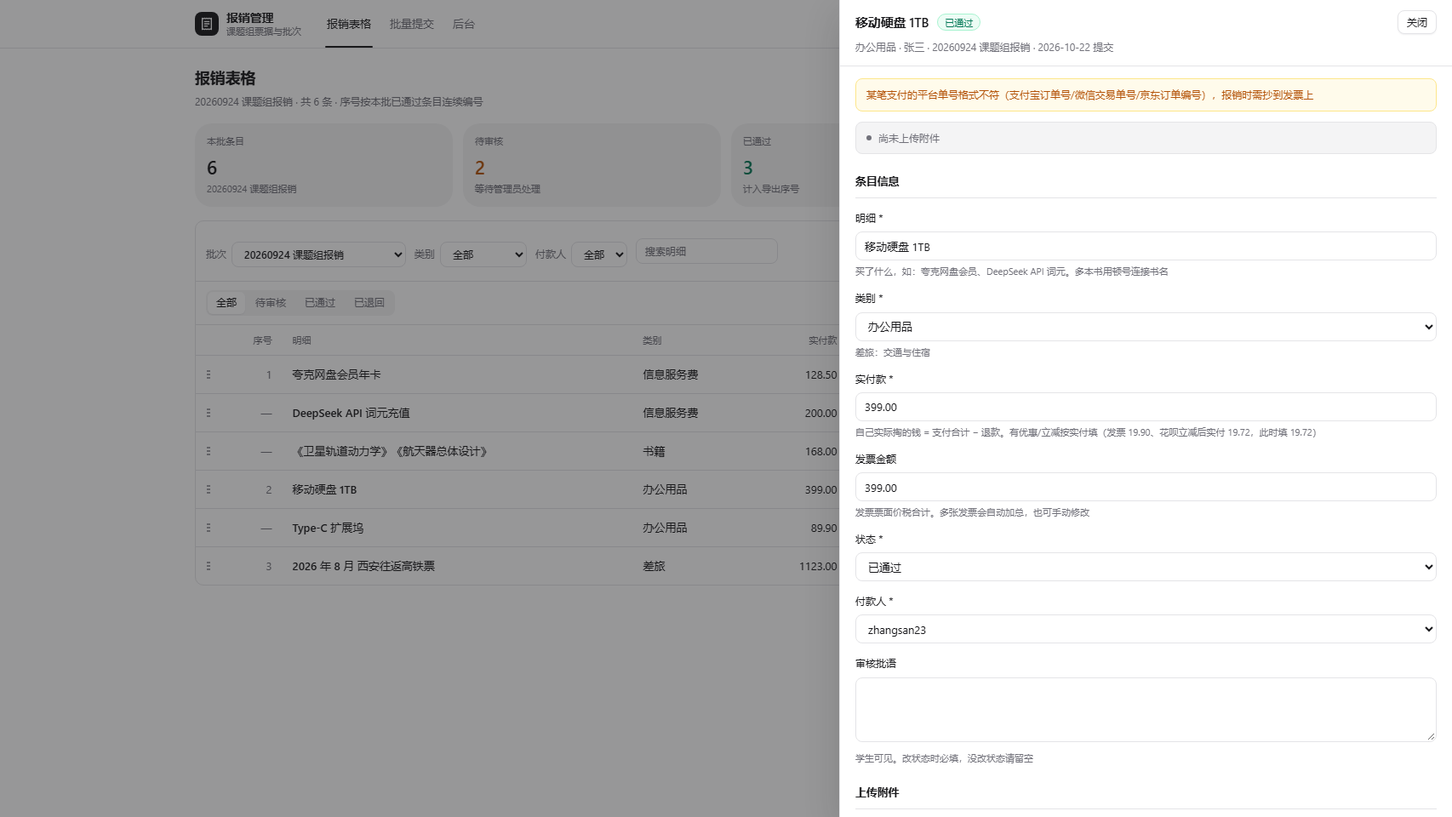
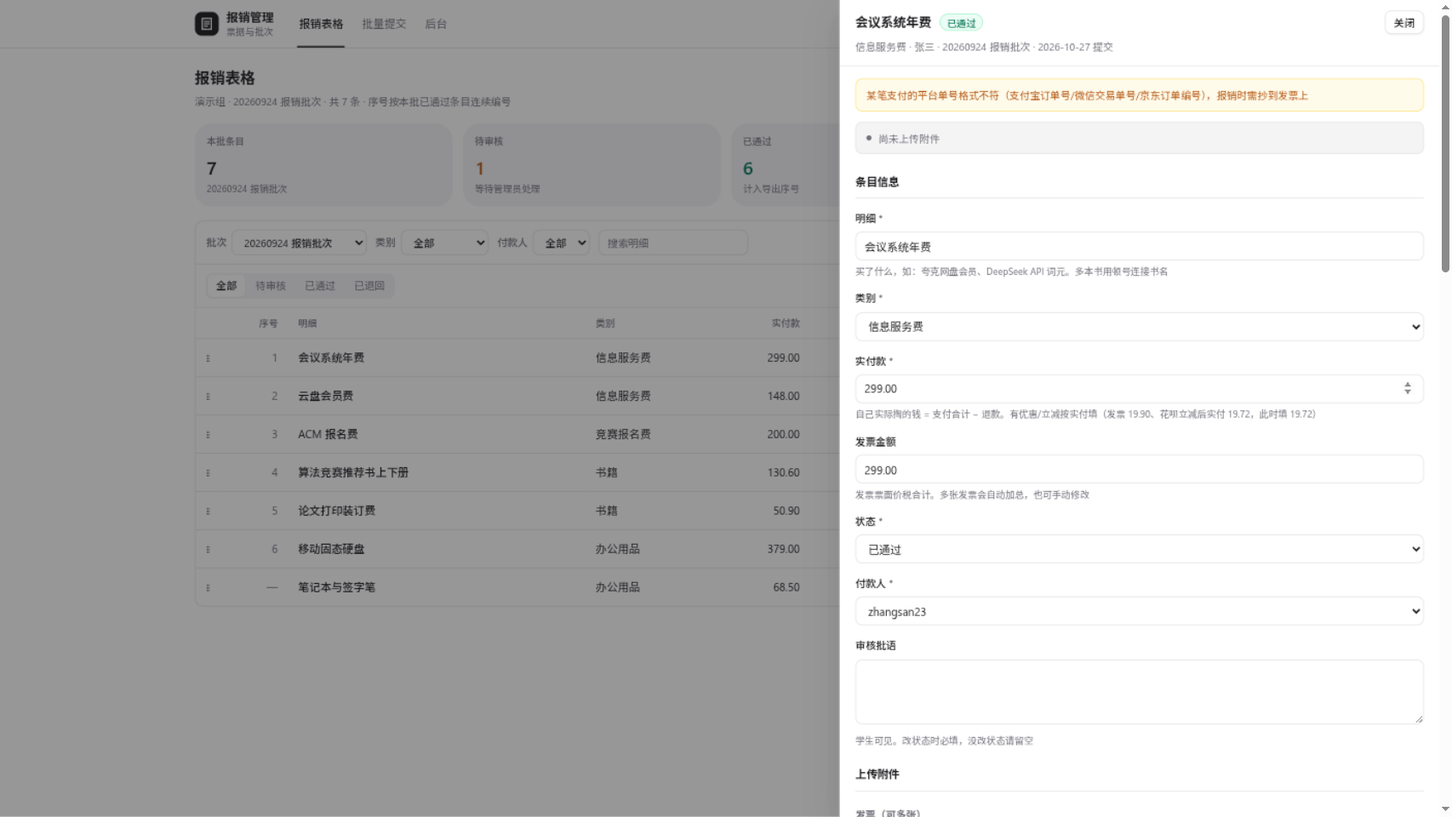
chore: 移除仓库中的敏感信息
- 移除真实组名（实验班、课题组）、示例用户名、初始密码明文与生产域名，涉及 README、AGENTS.md、CONTEXT.md、CHANGELOG、ADR 与代码注释、模板文案
- 迁移种子组名改为默认组，仅在有存量数据时兜底，全新部署不再预置空批次与默认组（0005、0011），测试数据组名同步改为甲组、乙组
- 预览截图以演示数据重新生成，不含真实姓名与批次名
- 全量 216 项测试通过

diff --git a/core/templates/core/board.html b/core/templates/core/board.html
@@ -51,7 +51,7 @@
         </select>
         <label for="new-batch-name">批次名称</label>
         <input type="text" id="new-batch-name" name="name" maxlength="100" required
-               placeholder="如：20260924 课题组报销">
+               placeholder="如：20260924 报销批次">
         <button type="submit">创建批次</button>
       </form>
     {% elif groups %}

diff --git a/core/templates/core/base.html b/core/templates/core/base.html
@@ -34,7 +34,7 @@
       </span>
       <span class="brand-text">
         <span class="brand-name">报销管理</span>
-        <span class="brand-sub">课题组票据与批次</span>
+        <span class="brand-sub">票据与批次</span>
       </span>
     </a>
     {% if user.is_authenticated %}

diff --git a/core/tests.py b/core/tests.py
@@ -76,7 +76,7 @@ class SubmissionTestCase(TestCase):
         self.category, _ = Category.objects.get_or_create(
             name="信息服务费", defaults={"order": 0}
         )
-        self.group, _ = Group.objects.get_or_create(name="实验班")
+        self.group, _ = Group.objects.get_or_create(name="甲组")
         self.batch = Batch.objects.create(name="2025 报销批次", group=self.group)
         self.student = User.objects.create_user(
             "zhangsan22", password="pw", first_name="张三"
@@ -1630,12 +1630,12 @@ class GroupIsolationTests(SubmissionTestCase):
 
     def setUp(self):
         super().setUp()
-        self.other_group = Group.objects.create(name="课题组")
+        self.other_group = Group.objects.create(name="乙组")
         self.other_user = User.objects.create_user(
             "wangwu23", password="pw", first_name="王五"
         )
         self.other_group.user_set.add(self.other_user)
-        self.other_batch = Batch.objects.create(name="课题组批次", group=self.other_group)
+        self.other_batch = Batch.objects.create(name="乙组批次", group=self.other_group)
         self.other_item = Item.objects.create(
             owner=self.other_user, title="他组条目", category=self.category,
             batch=self.other_batch, actual_amount="9.00", position=1,
@@ -1653,7 +1653,7 @@ class GroupIsolationTests(SubmissionTestCase):
         response = self.client.get("/", {"batch": self.other_batch.pk})
         self.assertContains(response, "他组条目")
         self.assertContains(response, self.other_batch.name)
-        self.assertContains(response, self.batch.name)  # 批次下拉仍列出实验班批次
+        self.assertContains(response, self.batch.name)  # 批次下拉仍列出甲组批次
 
     def test_multi_group_user_sees_both(self):
         self.student.groups.add(self.other_group)
@@ -1661,7 +1661,7 @@ class GroupIsolationTests(SubmissionTestCase):
         response = self.client.get("/")
         self.assertContains(response, self.other_batch.name)
         self.assertContains(response, self.batch.name)
-        self.assertContains(response, "他组条目")  # 默认取最新批次（课题组批）
+        self.assertContains(response, "他组条目")  # 默认取最新批次（乙组批）
 
     def test_batch_page_group_selector_only_for_multi_group(self):
         self.client.force_login(self.student)
@@ -2085,7 +2085,7 @@ class ExportBatchTests(SubmissionTestCase):
         ))
         self.client.force_login(self.staff)
         response = self.client.get("/export/excel/", {"batch": self.batch.pk})
-        self.assertIn("报销汇总_实验班_2025 报销批次.xlsx", _content_disposition(response))
+        self.assertIn("报销汇总_甲组_2025 报销批次.xlsx", _content_disposition(response))
         sheet = load_workbook(BytesIO(response.content)).active
         titles = [sheet.cell(row=r, column=2).value for r in range(2, sheet.max_row + 1)]
         self.assertIn("硬盘", titles)
@@ -2106,7 +2106,7 @@ class ExportBatchTests(SubmissionTestCase):
                             status=Item.STATUS_APPROVED)
         self.client.force_login(self.staff)
         response = self.client.get("/export/zip/", {"batch": self.batch.pk})
-        self.assertIn("报销材料_实验班_2025 报销批次.zip", _content_disposition(response))
+        self.assertIn("报销材料_甲组_2025 报销批次.zip", _content_disposition(response))
 
     def test_excel_seq_follows_position(self):
         Item.objects.create(owner=self.student, title="后提交排前", category=self.category,
@@ -2237,7 +2237,7 @@ class BatchAddTests(SubmissionTestCase):
         self.assertFalse(Batch.objects.filter(name="无组批次").exists())
 
     def test_same_name_allowed_in_other_group(self):
-        other_group = Group.objects.create(name="课题组")
+        other_group = Group.objects.create(name="乙组")
         self.client.force_login(self.staff)
         response = self.client.post(
             "/batches/add/", {"name": self.batch.name, "group": other_group.pk})
@@ -2246,11 +2246,11 @@ class BatchAddTests(SubmissionTestCase):
 
 
 class SelfServiceBatchTests(SubmissionTestCase):
-    """课题组成员自助：自己建批、条目进自己批次、自己批次内可审核。"""
+    """乙组成员自助：自己建批、条目进自己批次、自己批次内可审核。"""
 
     def setUp(self):
         super().setUp()
-        self.self_group = Group.objects.create(name="课题组")
+        self.self_group = Group.objects.create(name="乙组")
         GroupSettings.objects.create(group=self.self_group, self_service=True)
         self.member = User.objects.create_user("member", password="pw", first_name="成员甲")
         self.member_b = User.objects.create_user("memberb", password="pw", first_name="成员乙")
@@ -2502,7 +2502,7 @@ class AdminPagesTests(TestCase):
         self.client.force_login(self.root)
 
     def test_admin_pages_render(self):
-        group = Group.objects.create(name="课题组")
+        group = Group.objects.create(name="乙组")
         for url in (
             "/admin/auth/group/add/",
             f"/admin/auth/group/{group.pk}/change/",
@@ -2514,26 +2514,26 @@ class AdminPagesTests(TestCase):
                 self.assertEqual(self.client.get(url).status_code, 200)
 
     def test_group_admin_updates_members(self):
-        group = Group.objects.create(name="课题组")
+        group = Group.objects.create(name="乙组")
         response = self.client.post(
             f"/admin/auth/group/{group.pk}/change/",
-            {"name": "课题组", "members": [self.root.pk]},
+            {"name": "乙组", "members": [self.root.pk]},
         )
         self.assertEqual(response.status_code, 302)
         self.assertTrue(group.user_set.filter(pk=self.root.pk).exists())
 
     def test_group_admin_keeps_inactive_members(self):
-        group = Group.objects.create(name="课题组")
+        group = Group.objects.create(name="乙组")
         inactive = User.objects.create_user("gone", password="x", is_active=False)
         group.user_set.add(inactive)
         response = self.client.get(f"/admin/auth/group/{group.pk}/change/")
         self.assertContains(response, f'value="{inactive.pk}" selected')
 
     def test_group_admin_sets_self_service(self):
-        group = Group.objects.create(name="课题组")
+        group = Group.objects.create(name="乙组")
         response = self.client.post(
             f"/admin/auth/group/{group.pk}/change/",
-            {"name": "课题组", "members": [], "self_service": "on"},
+            {"name": "乙组", "members": [], "self_service": "on"},
         )
         self.assertEqual(response.status_code, 302)
         self.assertTrue(GroupSettings.objects.get(group=group).self_service)
@@ -2697,13 +2697,13 @@ class ImportBatchCommandTests(SubmissionTestCase):
         self.assertIn("payment.jpg", out)
 
     def test_multiple_groups_require_group_argument(self):
-        Group.objects.create(name="课题组")
+        Group.objects.create(name="乙组")
         with tempfile.TemporaryDirectory() as tmp:
             with self.assertRaisesMessage(CommandError, "--group"):
                 self.call(tmp)
 
     def test_group_argument_creates_batch_in_group(self):
-        group = Group.objects.create(name="课题组")
+        group = Group.objects.create(name="乙组")
         with tempfile.TemporaryDirectory() as tmp:
             self._write(tmp, "张三", ["invoice.jpg", "payment.jpg"])
             with mock.patch("core.vision.detect") as detect:
@@ -2712,10 +2712,10 @@ class ImportBatchCommandTests(SubmissionTestCase):
                     {"kind": "payment", "amount": 100, "order_no": ALIPAY_ORDER_NO},
                 ]
                 with mock.patch("core.vision.field_suggest", return_value={"suggestions": []}):
-                    out = self.call(tmp, "--batch", "导入测试批", "--group", "课题组")
+                    out = self.call(tmp, "--batch", "导入测试批", "--group", "乙组")
         batch = Batch.objects.get(name="导入测试批")
         self.assertEqual(batch.group, group)
-        self.assertIn("课题组", out)
+        self.assertIn("乙组", out)
 
     def test_dry_run_creates_nothing(self):
         with tempfile.TemporaryDirectory() as tmp:

diff --git a/core/migrations/0011_batch_group.py b/core/migrations/0011_batch_group.py
@@ -2,13 +2,17 @@ import django.db.models.deletion
 from django.db import migrations, models
 
 
-def seed_experiment_group(apps, schema_editor):
-    """历史数据归入实验班：现有批次与账号都迁进去，之后由管理员另建课题组。"""
+def seed_default_group(apps, schema_editor):
+    """把历史数据归入默认组。全新部署（无账号也无无组批次）不预置组，由管理员自建。"""
     Group = apps.get_model("auth", "Group")
     User = apps.get_model("auth", "User")
     Batch = apps.get_model("core", "Batch")
 
-    group, _ = Group.objects.get_or_create(name="实验班")
+    has_orphans = Batch.objects.filter(group__isnull=True).exists()
+    if not has_orphans and not User.objects.exists():
+        return
+
+    group, _ = Group.objects.get_or_create(name="默认组")
     Batch.objects.filter(group__isnull=True).update(group=group)
 
     UserGroup = User.groups.through
@@ -44,7 +48,7 @@ class Migration(migrations.Migration):
                 verbose_name="组",
             ),
         ),
-        migrations.RunPython(seed_experiment_group, migrations.RunPython.noop),
+        migrations.RunPython(seed_default_group, migrations.RunPython.noop),
         migrations.AlterField(
             model_name="batch",
             name="group",

diff --git a/core/migrations/0005_batch_item_position.py b/core/migrations/0005_batch_item_position.py
@@ -1,7 +1,7 @@
 """报销批次与条目持久化顺序：新建 Batch；Item 挂批次（PROTECT）并加全局递增 position。
 
 迁移顺序关键：batch 先以 null=True 加入，把存量条目（生产仅 1 条测试数据）挂到
-自建的"历史条目"批次并给 position=1，最后收紧为非空。
+自建的"历史条目"批次并给 position=1，最后收紧为非空。无存量条目时跳过，不建空批次。
 """
 
 import django.db.models.deletion
@@ -11,6 +11,8 @@ from django.db import migrations, models
 def assign_default_batch(apps, schema_editor):
     Batch = apps.get_model("core", "Batch")
     Item = apps.get_model("core", "Item")
+    if not Item.objects.exists():
+        return
     batch = Batch.objects.create(name="历史条目")
     Item.objects.update(batch=batch, position=1)
 

diff --git a/config/settings.py b/config/settings.py
@@ -24,7 +24,7 @@ ALLOWED_HOSTS = [
 CSRF_TRUSTED_ORIGINS = [
     o.strip() for o in os.environ.get("DJANGO_CSRF_TRUSTED_ORIGINS", "").split(",") if o.strip()
 ]
-# 导出下载走独立子域（如 https://download.cislunarspace.cn），空 = 与页面同域
+# 导出下载走独立子域（如 https://download.example.com），空 = 与页面同域
 DOWNLOAD_ORIGIN = os.environ.get("DJANGO_DOWNLOAD_ORIGIN", "").rstrip("/")
 # 页面域与下载域共享登录态：cookie 挂父域。空 = 默认仅当前域
 _cookie_domain = os.environ.get("DJANGO_COOKIE_DOMAIN", "")

diff --git a/core/stamping.py b/core/stamping.py
@@ -1,6 +1,6 @@
 """导出票据标注：把附件字节标注成盖红色标记的 PDF。
 
-规格来自人工批次处理流程（共享盘 20260924 课题组报销 处理脚本.py）：
+规格来自人工批次处理流程（共享盘 20260924 批次处理脚本.py）：
 条目导出序号盖在该条目全部附件每一页左下角（22pt hebo），各支付记录的
 平台单号逐行写在第一张发票附件首页序号上方（8.5pt china-s，前缀称谓对齐
 支付平台截图字段名），图片附件先转单页 PDF（150dpi 换算页宽）。

diff --git a/core/views.py b/core/views.py
@@ -1258,7 +1258,7 @@ def export_zip(request):
 
 
 def session_check(request):
-    """nginx auth_request 子请求（跨子域名共享 session，如 mineru.cislunarspace.cn）。
+    """nginx auth_request 子请求（跨子域名共享 session，如 mineru.example.com）。
 
     已登录返回 204，未登录返回 401。由边缘 nginx 将 401 重定向到统一登录页。
     """

diff --git a/CONTEXT.md b/CONTEXT.md
@@ -4,8 +4,8 @@
 
 - 报销条目（Item）：学生提交的一条报销记录。字段：明细 `title`、类别 `category`、实付款 `actual_amount`、发票金额 `invoice_amount`、状态 `status`。
 - 附件（Attachment）：条目下的一张票据文件，分四类，发票 `invoice`、支付记录 `payment`、退款记录 `refund`、证明材料 `support`，一条目可有多张。附件自带金额 `amount` 与该类专属号码字段。
-- 组（Group）：账号与批次的归属单元，如“实验班”“课题组”。底层用 Django `auth.Group`，不承担权限语义。一个用户可属于多个组，管理员用 Django 后台的组页面维护名称与成员，也可在用户页勾选组。非管理员只能看到自己所属组的批次、条目与附件，管理员看全部组。组设置（GroupSettings）可开启成员自助：成员可自建批次，并审批自己创建批次中的条目。
-- 报销批次（Batch）：一次报销处理的分组单元（如“20260924 课题组报销”），必属于一个组，每批独立汇总表与票据包。管理员或自助组成员建批时选组，条目必填归属。同一组内批次名唯一，不同组可重名。未开启自助的组，学生提交进本组最新批次；开启自助的组，成员提交进自己创建的批次。属于多组的用户提交时选择组。Excel/zip 导出按批出，文件名带组名与批次名。批次记录创建人，开启自助的组里，批次创建人可审核本批条目。已存档（archived）批次整体只读：条目与附件不可增改删、不可调序（学生与管理员一致）。管理员可在看板工具栏对当前批次存档或取消存档，Django 后台改标记仍可用。历史批次存档后仅供查阅。
+- 组（Group）：账号与批次的归属单元。底层用 Django `auth.Group`，不承担权限语义。一个用户可属于多个组，管理员用 Django 后台的组页面维护名称与成员，也可在用户页勾选组。非管理员只能看到自己所属组的批次、条目与附件，管理员看全部组。组设置（GroupSettings）可开启成员自助：成员可自建批次，并审批自己创建批次中的条目。
+- 报销批次（Batch）：一次报销处理的分组单元（如“20260924 报销批次”），必属于一个组，每批独立汇总表与票据包。管理员或自助组成员建批时选组，条目必填归属。同一组内批次名唯一，不同组可重名。未开启自助的组，学生提交进本组最新批次；开启自助的组，成员提交进自己创建的批次。属于多组的用户提交时选择组。Excel/zip 导出按批出，文件名带组名与批次名。批次记录创建人，开启自助的组里，批次创建人可审核本批条目。已存档（archived）批次整体只读：条目与附件不可增改删、不可调序（学生与管理员一致）。管理员可在看板工具栏对当前批次存档或取消存档，Django 后台改标记仍可用。历史批次存档后仅供查阅。
 - 条目顺序（position）与导出序号：`Item.position` 是全局递增的持久化顺序。导出序号 = 该批 approved 条目按（类别顺序、position、id）排序后的连续 1..M，表格“序号”列与导出严格一致，待审/退回行不占号（序号显示为占位短横）。staff 拖拽调序（限类别内），行内改类别自动落到目标类别末尾，调序不留痕。
 - 条目侧边栏：点表格行滑出的条目面板，含头部精简信息、最新审核批语、字段表单、附件分组卡片（PDF 打开时才加载）、自动校验警告与操作留痕。同组用户可见，编辑控件限本人或管理员。开启自助的组里，批次创建者可审核自己批次中的条目，只能改审核状态，不能改付款人或编辑、删除他人条目。条目付款人本人即使已不在该组，仍可凭条目链接查看自己的条目，但写操作要求付款人仍在组内，看板也不跨组列出历史条目。
 - 付款人（owner）：条目归属人，即学生。账号由管理员在后台开通并加入组，真实姓名存 `user.first_name`（建号时填写），展示时用 `get_full_name()` 回退 `username`。
@@ -37,5 +37,5 @@
 - “实付款”永远指报销基准金额（支付合计 − 退款合计），与“发票金额”严格区分。
 - “平台单号”是支付平台的交易单号（抄到发票上），“商户单号”是配对参考，两者不混用。
 - 付款人=用户，不单独建模。不要引入 Person/Student 模型。
-- 说“组”指账号与批次的归属单元（实验班、课题组），不指批量配对页临时聚合的文件集合；后者说“配对组”。
+- 说“组”指账号与批次的归属单元，不指批量配对页临时聚合的文件集合；后者说“配对组”。
 - 说“操作留痕”不说“日志”（避免与系统运行日志混淆）。“删除”指物理删除，恢复不做、以留痕快照追溯。

diff --git a/README.md b/README.md
@@ -6,7 +6,7 @@
 ![python](https://img.shields.io/badge/python-3.12-blue.svg)
 ![django](https://img.shields.io/badge/Django-6.1-green.svg)
 
-学生登录后自助提交报销条目（发票/支付记录/退款记录附件，AI 识别回填金额与单号，页内预览核对 + 实付金额），在本组共享表格视图中查看与筛选（批次切换、行内编辑，staff 可拖拽调序、行内审核），点行打开侧边栏编辑详情。管理员按报销批次一键导出报销 Excel 与票据 zip。账号仅由管理员开通，开放注册已关闭。账号与批次按组隔离，管理员可同时管理实验班、课题组等多个组。
+学生登录后自助提交报销条目（发票/支付记录/退款记录附件，AI 识别回填金额与单号，页内预览核对 + 实付金额），在本组共享表格视图中查看与筛选（批次切换、行内编辑，staff 可拖拽调序、行内审核），点行打开侧边栏编辑详情。管理员按报销批次一键导出报销 Excel 与票据 zip。账号仅由管理员开通，开放注册已关闭。账号与批次按组隔离，管理员可同时管理多个组。
 
 批量提交（`/items/batch/`）支持混合上传一批票据：逐张自动识别类型与字段，确定性规则配对（单号互证、退款挂组、金额兜底），配不上时由配对智能体做多轮定向重读再配，最后在分组预览页人工确认（右侧同步展示 AI 处理流程）。配不上支付记录的发票生成单边发票组（实付款 0.00），可先提交、审核不通过后从看板补传支付记录。
 
@@ -27,7 +27,7 @@ uv run python manage.py runserver   # http://127.0.0.1:8000/
 
 ## 账号与组
 
-管理员在 `/admin/` 建组（如实验班、课题组），组页面可直接选成员，用户页面也可勾选组，一人可属于多个组。批次建在组下，学生提交自动进本组最新批次。非管理员只能看到自己所属组的批次、条目与附件，管理员看全部组。组设置可开启成员自助，开启后成员可以创建自己的批次，并审批自己批次中的条目。
+管理员在 `/admin/` 建组，组页面可直接选成员，用户页面也可勾选组，一人可属于多个组。批次建在组下，学生提交自动进本组最新批次。非管理员只能看到自己所属组的批次、条目与附件，管理员看全部组。组设置可开启成员自助，开启后成员可以创建自己的批次，并审批自己批次中的条目。
 
 ## 配置
 

diff --git a/CHANGELOG.md b/CHANGELOG.md
@@ -8,8 +8,8 @@
 
 ### FEAT
 - **看板批次存档按钮**：管理员在看板工具栏一键存档或取消存档当前批次，按钮按批次状态切换文案，提交前弹出确认。此前存档只能到 Django 后台改标记，误存档后解锁也要绕回后台。存档语义不变：该批条目与附件对所有人只读。
-- **组隔离**：新增组（Django `auth.Group`）作为账号与批次的归属单元，一人可属多组。批次必填归属组，学生提交自动进本组最新批次，多组用户提交时选组。看板按组过滤批次与条目，条目侧边栏与附件下发限本组、付款人本人或管理员，管理员看全部组。调出组后原付款人只能查看不能修改。删除 `/media/` 静态下发路由，附件只走 `file_serve`。后台组页面可直接选成员，用户页面也可勾选组。历史批次与账号迁移归入“实验班”。导出文件名带组名与批次名，`import_batch` 新增 `--group`。决策见 ADR-0013。
-- **自助批次与创建人审批**：组设置新增成员自助开关，开启后组成员可以创建批次，条目进入自己最新创建的批次，批次创建人可以审核自己批次中的条目。审核只改状态且批语必填，不能改付款人或编辑、删除他人条目。后台组页面勾选开关，默认关闭，实验班保持管理员集中管理。决策见 ADR-0014。
+- **组隔离**：新增组（Django `auth.Group`）作为账号与批次的归属单元，一人可属多组。批次必填归属组，学生提交自动进本组最新批次，多组用户提交时选组。看板按组过滤批次与条目，条目侧边栏与附件下发限本组、付款人本人或管理员，管理员看全部组。调出组后原付款人只能查看不能修改。删除 `/media/` 静态下发路由，附件只走 `file_serve`。后台组页面可直接选成员，用户页面也可勾选组。历史批次与账号迁移归入默认组。导出文件名带组名与批次名，`import_batch` 新增 `--group`。决策见 ADR-0013。
+- **自助批次与创建人审批**：组设置新增成员自助开关，开启后组成员可以创建批次，条目进入自己最新创建的批次，批次创建人可以审核自己批次中的条目。审核只改状态且批语必填，不能改付款人或编辑、删除他人条目。后台组页面勾选开关，默认关闭，未开启的组保持管理员集中管理。决策见 ADR-0014。
 
 ## [1.1.0] - 2026-10-22
 

diff --git a/AGENTS.md b/AGENTS.md
@@ -1,7 +1,7 @@
 # AGENTS.md
 
 ## Project Overview
-报销管理（发票报销管理）：账号由管理员在后台开通（用户名 = 姓名拼音+年级，如 ouyangjiahong22）并归入组（如实验班、课题组，一人可属多组），学生登录后自助提交报销条目（发票/支付记录/退款记录附件 + AI 识别回填 + 实付金额），在本组共享表格视图中查看与筛选（批次切换、行内编辑，学生限改己行），点行打开侧边栏承载新建/编辑/附件/留痕。管理员在表格内审核（改状态/付款人）、拖拽调序、按报销批次一键导出用户格式 Excel（按类别小记+合计）与票据 zip。管理员看全部组，其他用户只看自己所属组。开启成员自助的组，成员可自建批次并审批自己批次中的条目。中文界面（`zh-hans`），服务端渲染，无前端构建链。开放注册已关闭（ADR-0003），组与批次归属见 ADR-0013，自助批次见 ADR-0014。
+报销管理（发票报销管理）：账号由管理员在后台开通（用户名 = 姓名拼音+年级）并归入组（一人可属多组），学生登录后自助提交报销条目（发票/支付记录/退款记录附件 + AI 识别回填 + 实付金额），在本组共享表格视图中查看与筛选（批次切换、行内编辑，学生限改己行），点行打开侧边栏承载新建/编辑/附件/留痕。管理员在表格内审核（改状态/付款人）、拖拽调序、按报销批次一键导出用户格式 Excel（按类别小记+合计）与票据 zip。管理员看全部组，其他用户只看自己所属组。开启成员自助的组，成员可自建批次并审批自己批次中的条目。中文界面（`zh-hans`），服务端渲染，无前端构建链。开放注册已关闭（ADR-0003），组与批次归属见 ADR-0013，自助批次见 ADR-0014。
 
 ## Architecture & Data Flow
 Django 6.1 项目，项目配置包 `config`，唯一 app `core`，全函数视图 + Django 模板。
